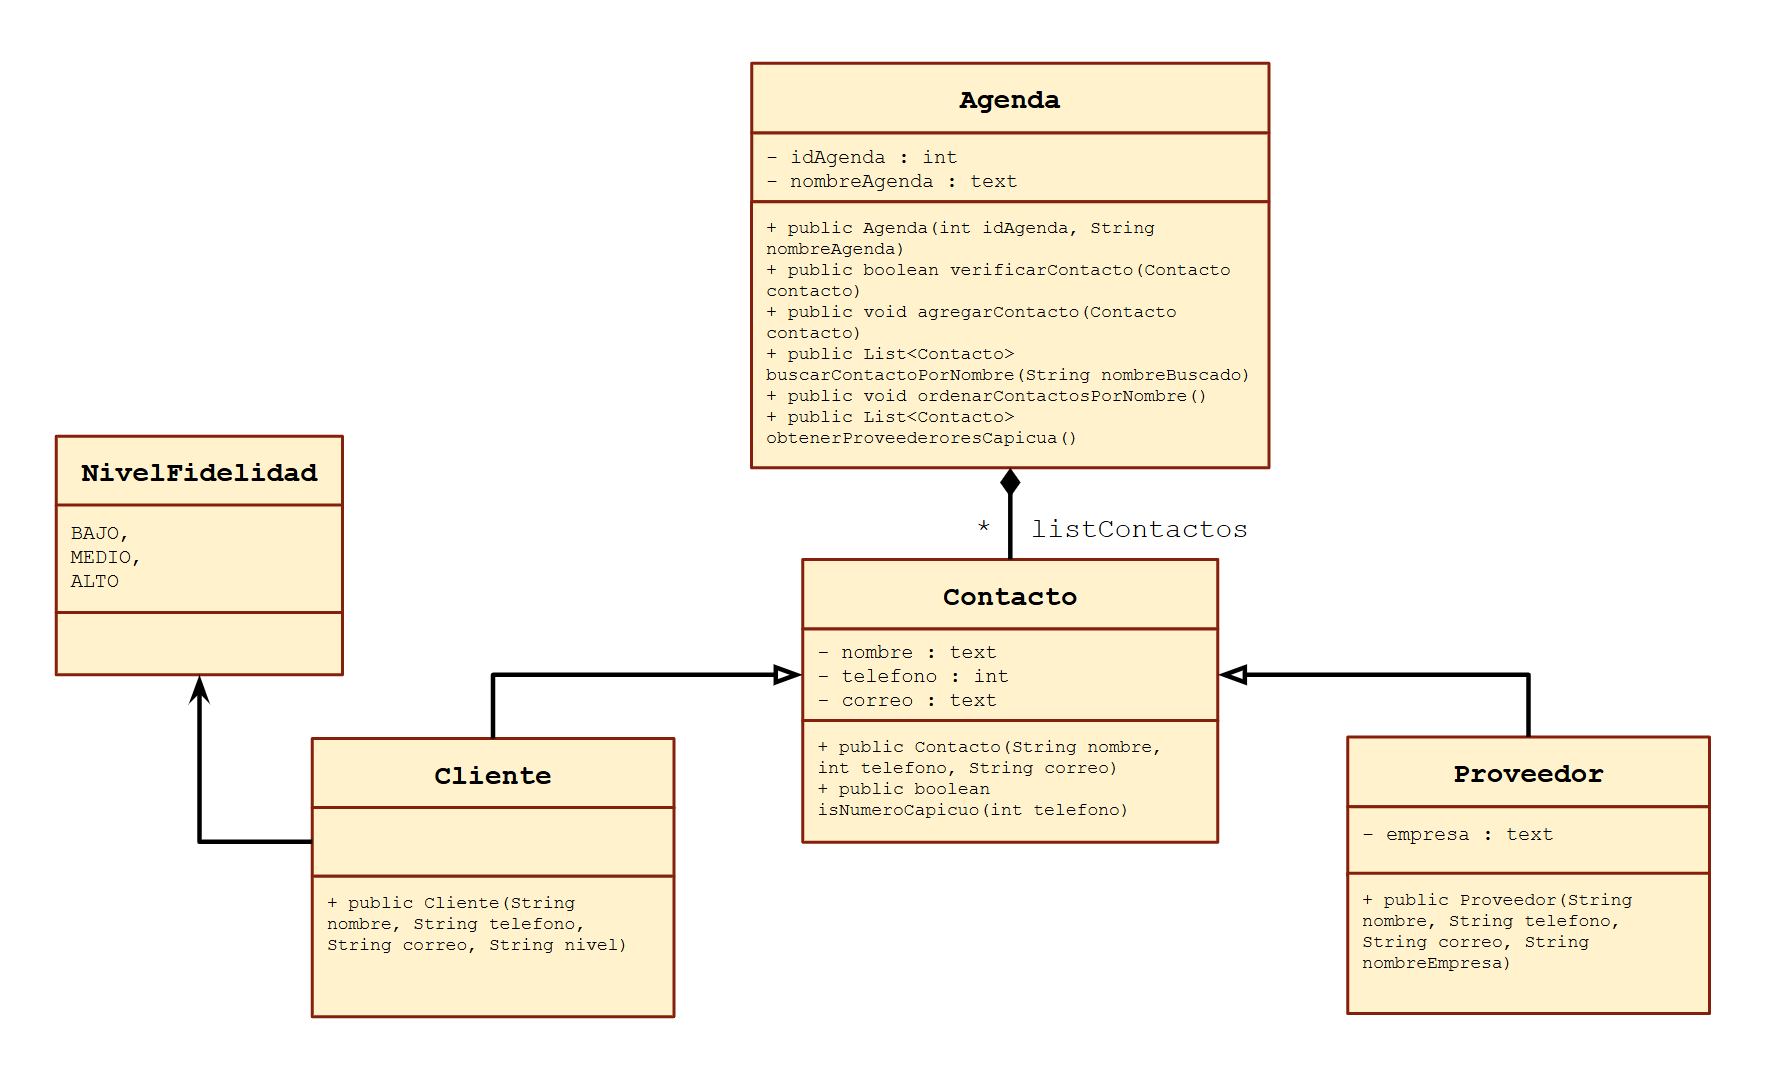
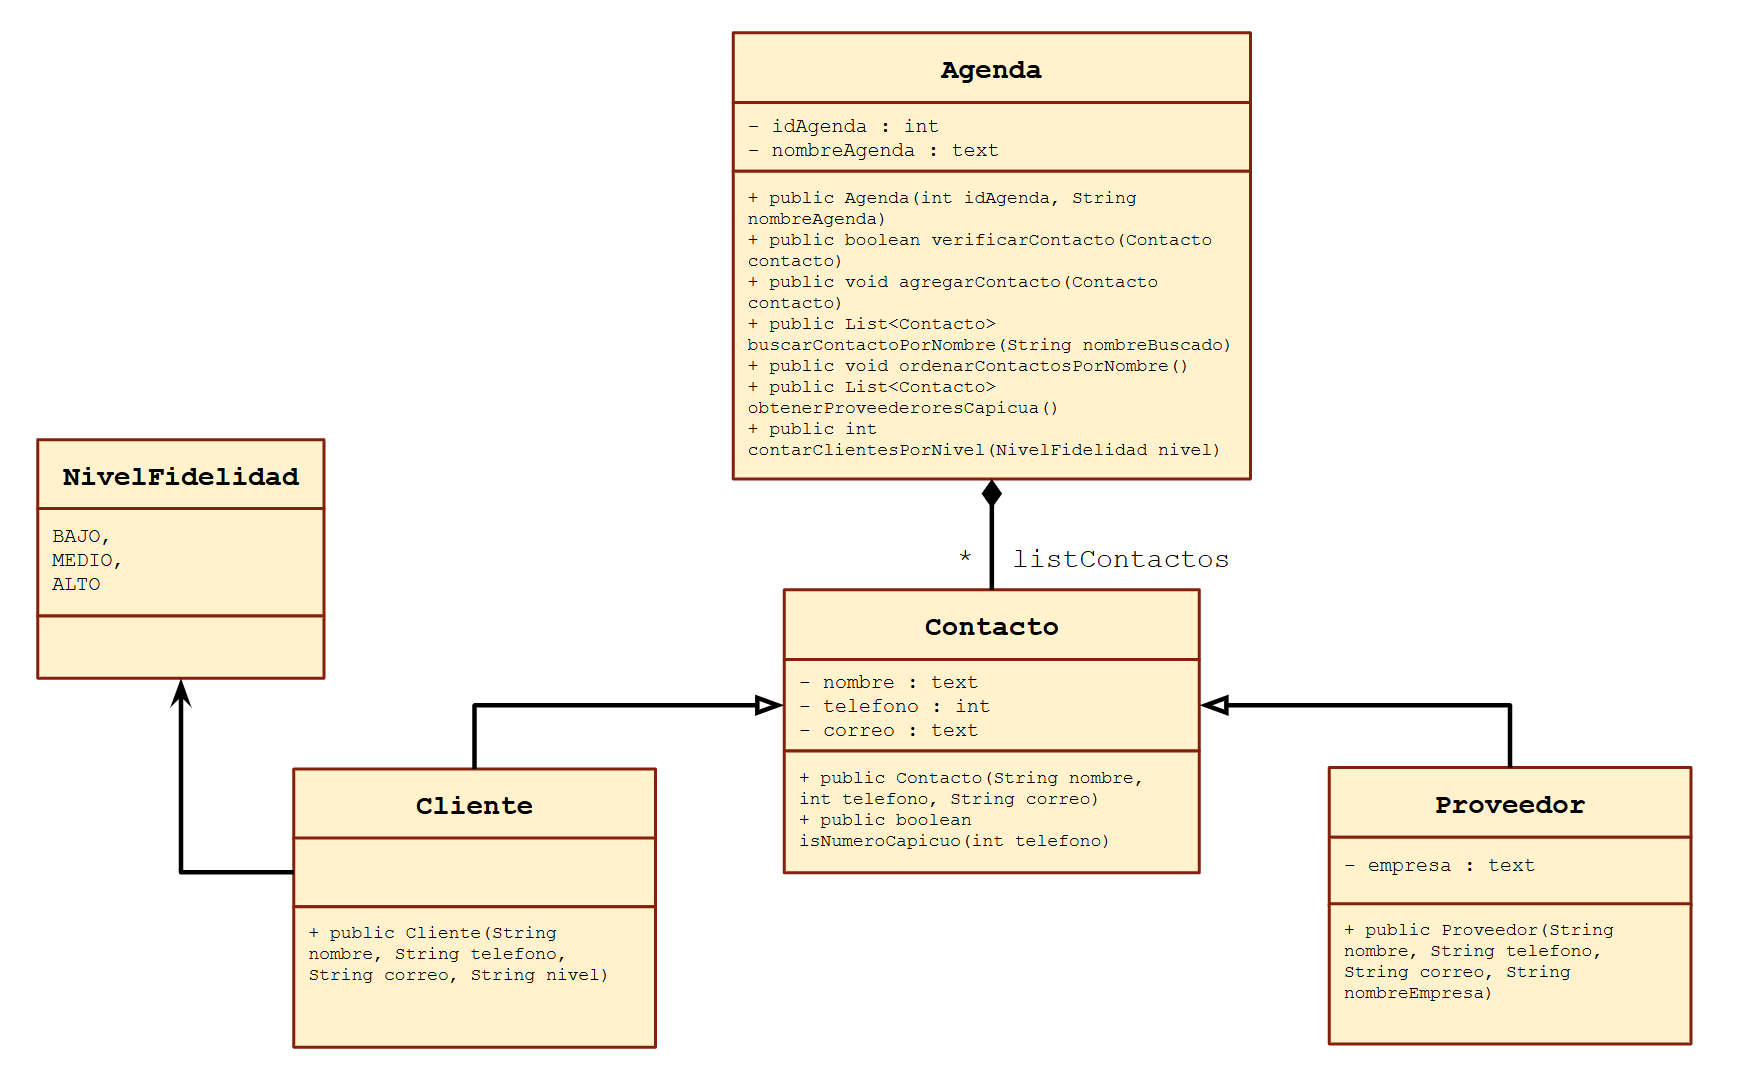
Parcial II

Changed region(s): [[0.0, 0.3972, 0.9931, 0.9778], [0.4034, 0.0306, 0.7448, 0.4583]]

diff --git a/P2-Agenda/src/main/java/co/edu/uniquindio/poo/model/Agenda.java b/P2-Agenda/src/main/java/co/edu/uniquindio/poo/model/Agenda.java
@@ -45,10 +45,10 @@ public class Agenda {
         boolean bandera = false;
         for(Contacto cont : listContactos){
             if(cont.getTelefono() == contacto.getTelefono()){
-                bandera = true; // ya existe el contacto
+                bandera = true;
             }
         }
-        return bandera; // No existe el contacto
+        return bandera;
     }
 
     /**
@@ -67,23 +67,6 @@ public class Agenda {
     }
 
     /**
-     * Metodo para determianr que proveedores tienen un numero de telefono capicuo
-     * @return proveedoresCapicuas
-     */
-    public List<Contacto> obtenerProveederoresCapicua(){
-        List<Contacto> proveedoresCapicuas = new ArrayList<>();
-        //Recorrer la lista de contactos
-        for(Contacto cont : listContactos){
-            if(cont instanceof Proveedor){
-                if(cont.isNumeroCapicuo(cont.getTelefono())){
-                    proveedoresCapicuas.add(cont);
-                }
-            }
-        }
-        return proveedoresCapicuas;
-    }
-
-    /**
      * Metodo para ordernar contactos por nombre
      */
     public void ordenarContactosPorNombre(){
@@ -98,6 +81,43 @@ public class Agenda {
                 }
             }
         }
+    }
+
+    /**
+     * PUNTO 2B
+     * Metodo que permite contar la cantidad de clientes por nivel de fidelidad
+     * @param nivel nivel de fidelidad a buscar
+     * @return cantidad de clientes que tienen ese nivel
+     */
+    public int contarClientesPorNivel(NivelFidelidad nivel) {
+        int contador = 0;
+
+        for (Contacto c : listContactos) {
+            if (c instanceof Cliente) {
+                Cliente cli = (Cliente) c;
+                if (cli.getNivelFidelidad() == nivel) {
+                    contador++;
+                }
+            }
+        }
+        return contador;
+    }
+
+    /**
+     * Metodo para determianr que proveedores tienen un numero de telefono capicuo
+     * @return proveedoresCapicuas
+     */
+    public List<Contacto> obtenerProveederoresCapicua(){
+        List<Contacto> proveedoresCapicuas = new ArrayList<>();
+        //Recorrer la lista de contactos
+        for(Contacto cont : listContactos){
+            if(cont instanceof Proveedor){
+                if(cont.isNumeroCapicuo(cont.getTelefono())){
+                    proveedoresCapicuas.add(cont);
+                }
+            }
+        }
+        return proveedoresCapicuas;
     }
 
 }

diff --git a/P2-Agenda/src/main/java/co/edu/uniquindio/poo/Main.java b/P2-Agenda/src/main/java/co/edu/uniquindio/poo/Main.java
@@ -5,7 +5,7 @@ import co.edu.uniquindio.poo.model.*;
 import java.util.List;
 
 public class Main {
-    
+
     public static void main(String[] args) {
 
         //Crear agenda
@@ -42,6 +42,18 @@ public class Main {
                 System.out.println(cont.getNombre() + " es un proveedor");
             }
         }
+
+        // Contar clientes por nivel de fidelidad
+        System.out.println("\n----Conteo de clientes por nivel de fidelidad----");
+        int cantidadAltos = agenda.contarClientesPorNivel(NivelFidelidad.ALTO);
+        int cantidadMedios = agenda.contarClientesPorNivel(NivelFidelidad.MEDIO);
+        int cantidadBajos = agenda.contarClientesPorNivel(NivelFidelidad.BAJO);
+
+        System.out.println("Clientes con fidelidad ALTO: " + cantidadAltos);
+        System.out.println("Clientes con fidelidad MEDIO: " + cantidadMedios);
+        System.out.println("Clientes con fidelidad BAJO: " + cantidadBajos);
+
+
     }
 
 }

diff --git a/P2-Agenda/src/main/java/co/edu/uniquindio/poo/model/Contacto.java b/P2-Agenda/src/main/java/co/edu/uniquindio/poo/model/Contacto.java
@@ -13,6 +13,7 @@ public class Contacto {
     }
 
     /**
+     * PUNTO 2A
      * Metodo que permite determinar si un numero es capicuo
      * @param telefono
      * @return
